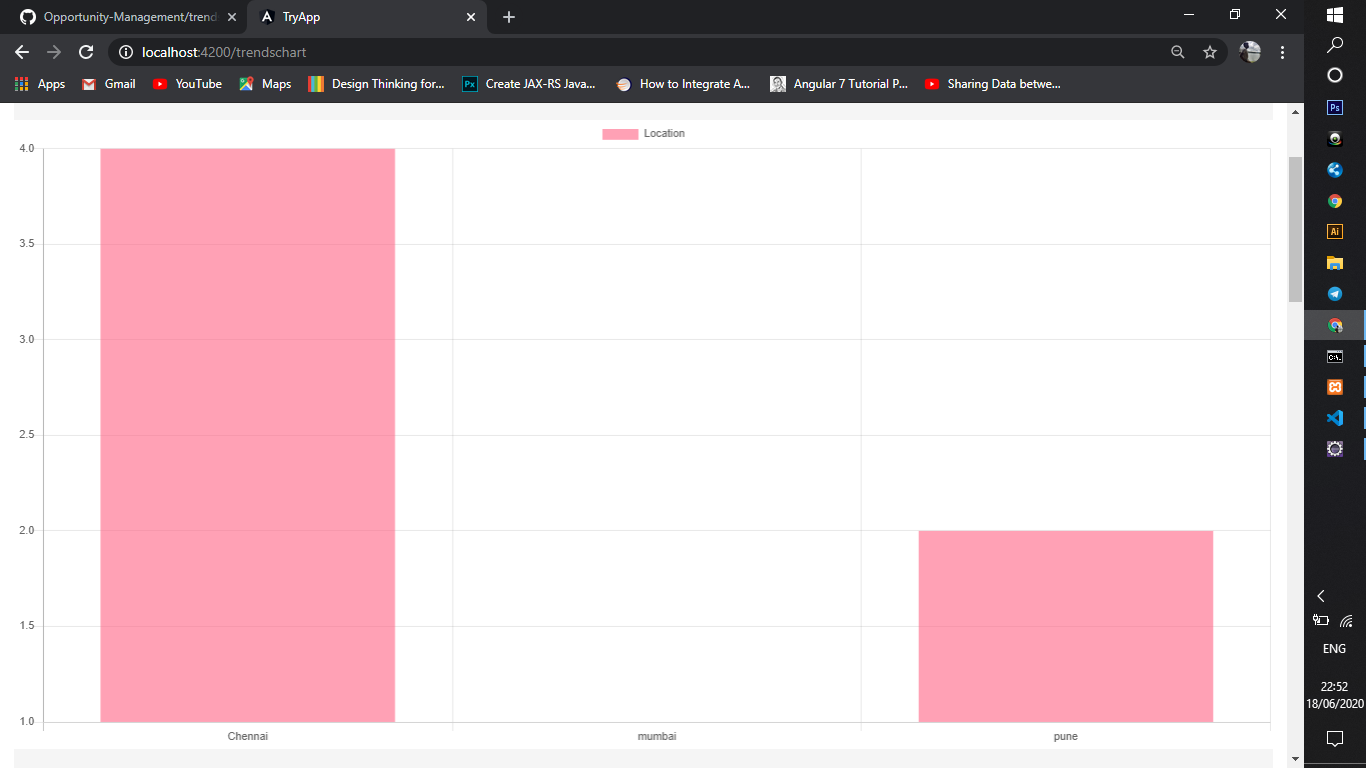
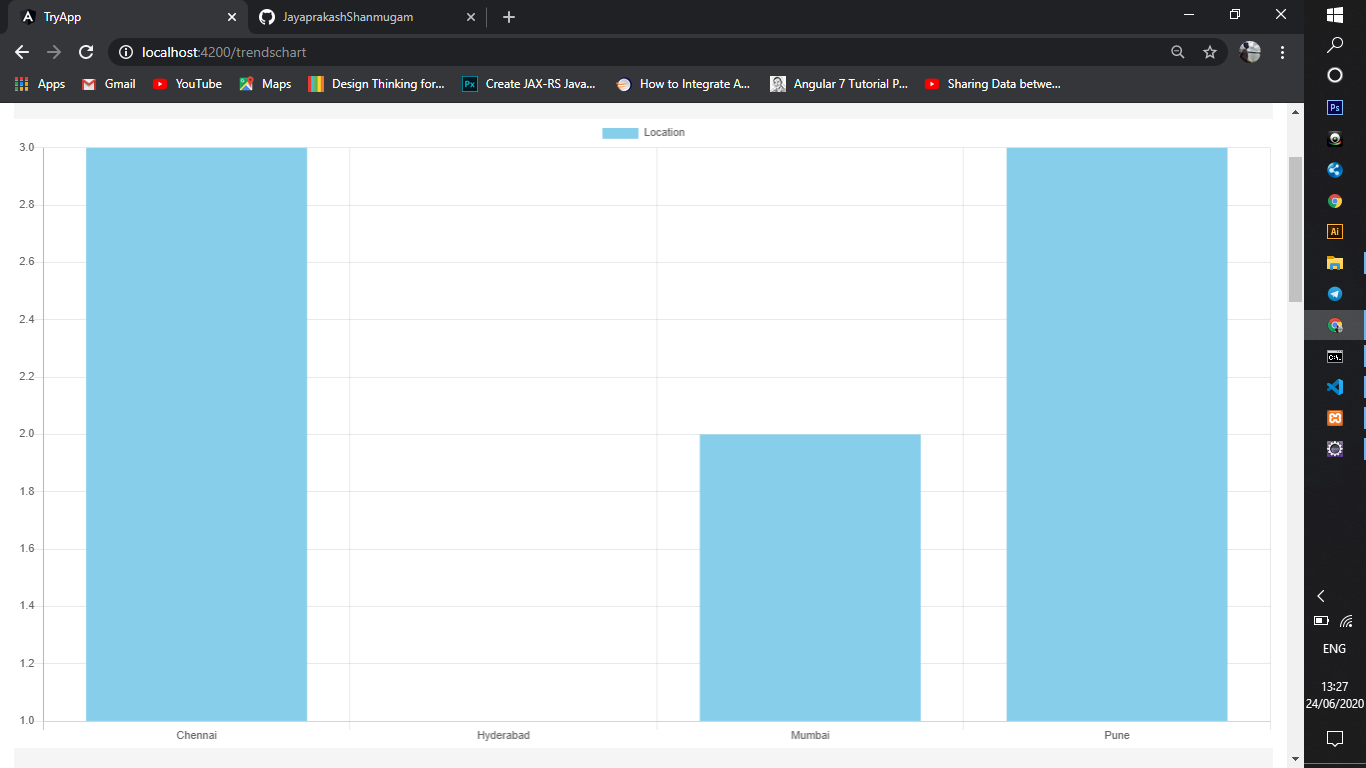
Updated trend charts

diff --git a/Angular/src/app/Components/trendschart/trendschart.component.ts b/Angular/src/app/Components/trendschart/trendschart.component.ts
@@ -1,6 +1,6 @@
 import { Component, OnInit } from '@angular/core';
 import { OpportunityserviceService } from '../opportunityservice.service';
-import { Opportunity } from '../opportunity';
+import { Color } from 'ng2-charts';
 
 @Component({
   selector: 'app-trendschart',
@@ -17,7 +17,10 @@ export class TrendschartComponent implements OnInit {
     responsive: true
   };
 
-  public barChartType = 'bar';
+  public barChartTypeLocation = 'bar';
+  public barChartTypeSkills = 'line';
+  public barChartTypeDescription = 'doughnut';
+  public barChartTypeExperience = 'bar';
   public barChartLegend = true;
   public barChartLabelLocation:any[] = [];
   public locationData:any[] = [];
@@ -39,6 +42,34 @@ export class TrendschartComponent implements OnInit {
   public barChartDataExperience:any =[{
     data:[]
   }]
+  public barChartColorsLocation: Color[] = [
+    { backgroundColor: 'skyblue' },
+  ]
+  public barChartColorsSkills: Color[] = [
+    { backgroundColor: 'rgba(225,10,24,0.2)',
+    borderColor: 'violet',
+    pointBackgroundColor: 'rgba(225,10,24,0.2)',
+    pointBorderColor: '#fff',
+    pointHoverBackgroundColor: '#fff',
+    pointHoverBorderColor: 'rgba(225,10,24,0.2)' },
+  ]
+  public barChartColorsDescription: Color[] = [
+    { backgroundColor: [
+      'rgba(110, 114, 20, 1)',
+       'rgba(118, 183, 172, 1)',
+       'rgba(0, 148, 97, 1)',
+       'rgba(129, 78, 40, 1)',
+       'rgba(129, 199, 111, 1)',
+       'rgba(200, 109, 140, 1)',
+       'rgba(118, 113, 172, 1)',
+       'rgba(123, 148, 97, 0)',
+       'rgba(120, 240, 400, 0)',
+       'rgba(129, 199, 11, 0)'
+       ] }
+  ]
+  public barChartColorsExperience: Color[] = [
+    { backgroundColor: 'orange' },
+  ]
  
   ngOnInit(): void {
     this.service.locationcounter().subscribe((dataitemslocation:any[])=>{

diff --git a/Angular/src/app/Components/trendschart/trendschart.component.html b/Angular/src/app/Components/trendschart/trendschart.component.html
@@ -20,8 +20,9 @@
                   [datasets]="barChartDataLocation"
                   [labels]="barChartLabelLocation"
                   [options]="barChartOptions"
+                  [colors]="barChartColorsLocation"
                   [legend]="barChartLegend"
-                  [chartType]="barChartType">
+                  [chartType]="barChartTypeLocation">
           </canvas>
         </div>
         <mat-toolbar>
@@ -32,8 +33,9 @@
                   [datasets]="barChartDataSkills"
                   [labels]="barChartLabelSkills"
                   [options]="barChartOptions"
+                  [colors]="barChartColorsSkills"
                   [legend]="barChartLegend"
-                  [chartType]="barChartType">
+                  [chartType]="barChartTypeSkills">
           </canvas>
         </div>
         <mat-toolbar>
@@ -44,8 +46,9 @@
                   [datasets]="barChartDataDescription"
                   [labels]="barChartLabelDescription"
                   [options]="barChartOptions"
+                  [colors]="barChartColorsDescription"
                   [legend]="barChartLegend"
-                  [chartType]="barChartType">
+                  [chartType]="barChartTypeDescription">
           </canvas>
         </div>
         <mat-toolbar>
@@ -56,8 +59,9 @@
                   [datasets]="barChartDataExperience"
                   [labels]="barChartLabelExperience"
                   [options]="barChartOptions"
+                  [colors]="barChartColorsExperience"
                   [legend]="barChartLegend"
-                  [chartType]="barChartType">
+                  [chartType]="barChartTypeExperience">
           </canvas>
         </div>
       </div>
